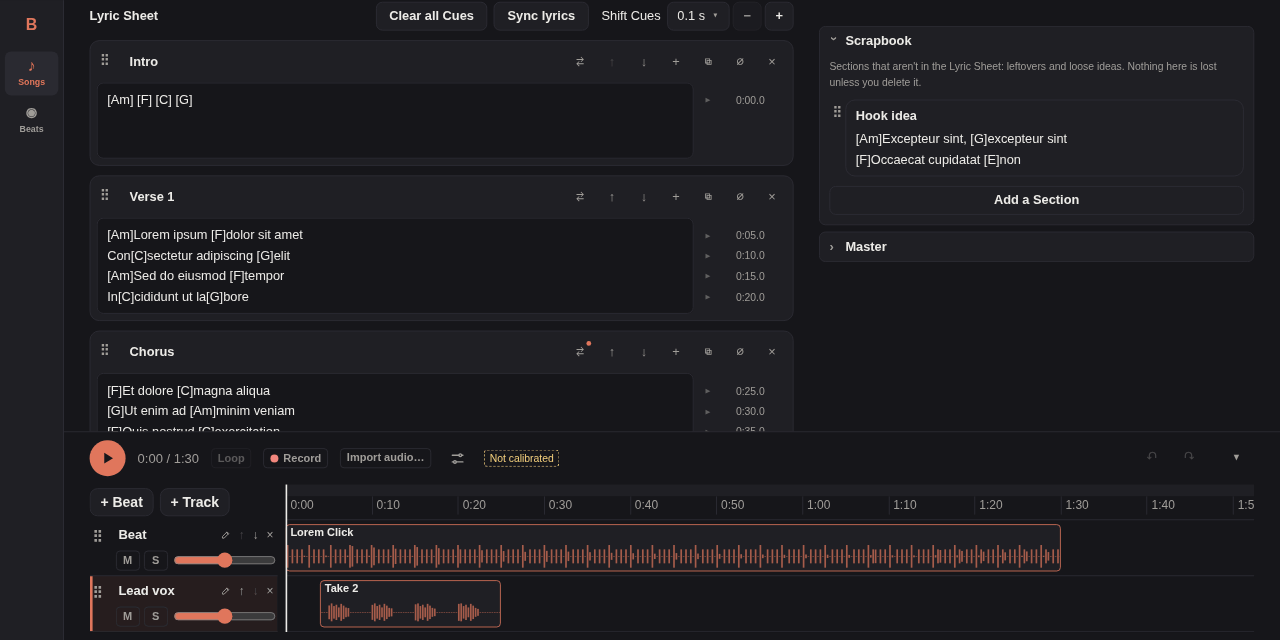
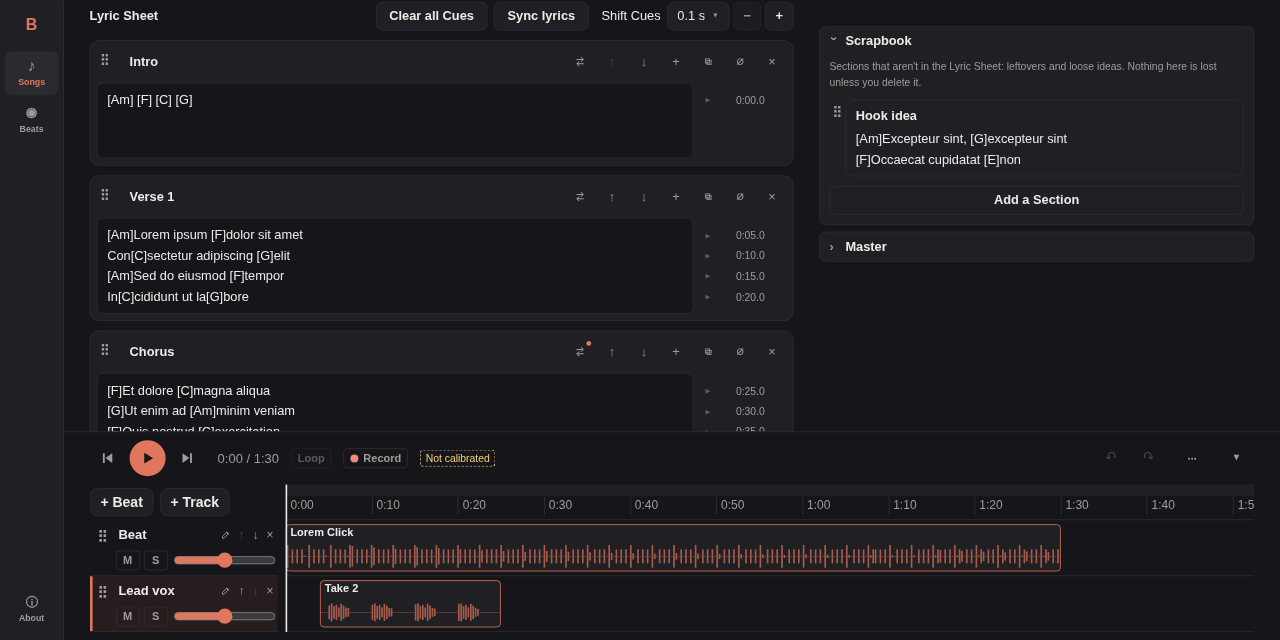
Sharper README screenshots and a smoother Sync mode animation
Shoot the stills at 2x in full colour, and record the Sync mode
animation from Chromium's screencast (about 60 paints a second) into a
lossless 30 fps animated WebP, in place of the 8 fps, 48-colour GIF.

Closes #443

diff --git a/docs/screenshots/README.md b/docs/screenshots/README.md
@@ -1,21 +1,21 @@
 # Screenshots
 
-The README's screenshots, taken in the dark theme from a demo Bandmate:
+The README's screenshots, taken in the dark theme from a demo Bandmate. The desktop and phone shots are at twice their CSS pixels, so they stay sharp on HiDPI screens:
 
-| File                    | Shows                                                                   |
-| ----------------------- | ----------------------------------------------------------------------- |
-| `song-list.png`         | The Song list on desktop                                                |
-| `write-mode.png`        | The hero Song in Write mode on desktop, with the Timeline open          |
-| `phone-lyric-sheet.png` | The hero Song's Lyric Sheet on a phone                                  |
-| `read-mode.png`         | The hero Song in Read mode, with the Line playing highlighted           |
-| `sync-mode.gif`         | Sync mode cueing the Bridge's Lines                                     |
-| `social-preview.png`    | GitHub's social preview (1280×640), from the hero Song in Write mode    |
+| File                    | Shows                                                                |
+| ----------------------- | -------------------------------------------------------------------- |
+| `song-list.png`         | The Song list on desktop                                             |
+| `write-mode.png`        | The hero Song in Write mode on desktop, with the Timeline open       |
+| `phone-lyric-sheet.png` | The hero Song's Lyric Sheet on a phone                               |
+| `read-mode.png`         | The hero Song in Read mode, with the Line playing highlighted        |
+| `sync-mode.webp`        | Sync mode cueing the Bridge's Lines, animated                        |
+| `social-preview.png`    | GitHub's social preview (1280×640), from the hero Song in Write mode |
 
 The demo content is lorem ipsum, made by [`cmd/demoseed`](../../cmd/demoseed): a hero Song with Chords, a Chord Line, a second Alternate, Cues, a Scrapbook Section, a generated click-track Beat and two Takes, and six other Songs across every Status.
 
 ## Retaking them
 
-When the UI changes and the screenshots go stale, reseed a fresh Bandmate and recapture. Capturing needs Node, Chromium and ffmpeg; the seed needs only Go.
+When the UI changes and the screenshots go stale, reseed a fresh Bandmate and recapture. Capturing needs Node, Chromium and ffmpeg built with libwebp; the seed needs only Go.
 
 1. Build the web app and start Bandmate on an empty data directory:
 
@@ -39,7 +39,7 @@ When the UI changes and the screenshots go stale, reseed a fresh Bandmate and re
    npm run capture
    ```
 
-   It drives Chromium at `/usr/bin/chromium` (set `CHROMIUM` to use another) against `http://localhost:8080` (set `BANDMATE_URL` to use another), and writes the images here. The GIF is timed against the Timeline playing, so leave the machine idle while it runs, about half a minute.
+   It drives Chromium at `/usr/bin/chromium` (set `CHROMIUM` to use another) against `http://localhost:8080` (set `BANDMATE_URL` to use another), and writes the images here. The animation is recorded from Chromium's screencast, timed against the Timeline playing, so leave the machine idle while it runs, about half a minute.
 
 Capturing leaves the Bridge cued, so reseed from step 1 before capturing again.
 

diff --git a/README.md b/README.md
@@ -41,7 +41,7 @@ The words in bold are defined in the glossary, [CONTEXT.md](CONTEXT.md).
 - While the Timeline plays, the Line playing is highlighted and the Lyric Sheet follows it. In Read mode, clicking a cued Line plays from it.
 - Shift every Cue at once, and see which Cues are out of order.
 
-![Sync mode cueing a Section's Lines as the Timeline plays](docs/screenshots/sync-mode.gif)
+![Sync mode cueing a Section's Lines as the Timeline plays](docs/screenshots/sync-mode.webp)
 
 ![A Song in Read mode, with the Line playing highlighted](docs/screenshots/read-mode.png)
 
